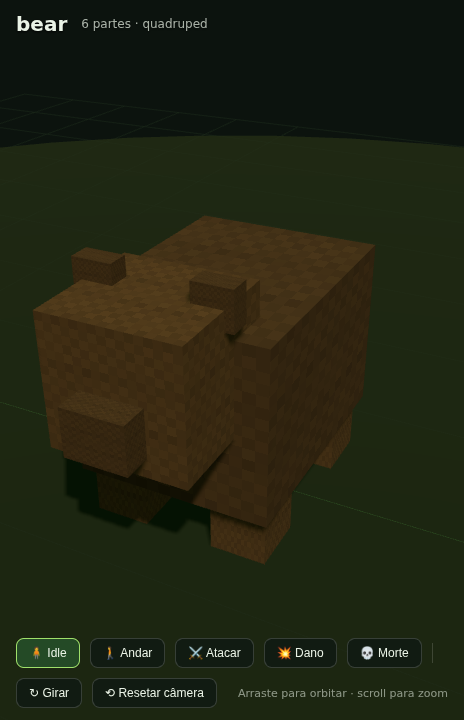
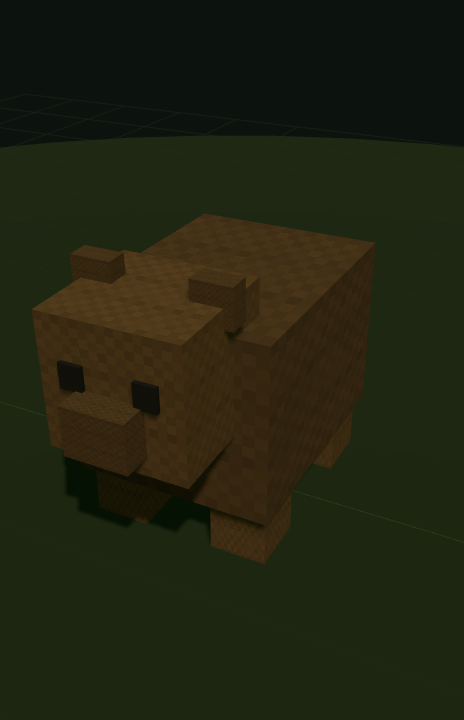
Polish: olhos nas formas, rua explícita, deco de interior por vila (ADR 0163, E30)
- Olhos: Lobo (âmbar), Urso (escuro) e Corvo (dourado) ganham olhos — as
  formas que faltavam. Fauna/inimigos/chefes já tinham. Imagens da wiki
  (forma-lobo/urso/corvo) recapturadas.
- Rua explícita: streetForce puxa o aldeão para a laje de rua mais próxima
  quando longe do alvo; some perto do alvo (chega à porta). v.streets =
  células de rua da vila. O povo anda pelos caminhos, não corta reto.
- Decoração de interior por vila: ao entrar, a vila de origem é detectada
  (settlementAt) e o interior ganha um canto com o sotaque da vila — peixe/
  junco (Vau), toras/toco (Cinzafolha), pele/gelo (Degelo), ervas (Clareira).
- Testes: streetForce (steering.test). 352 verdes; build ok.

Claude-Session: https://claude.ai/code/session_01EWx66t9zyS4WcLoHkWTqdG

diff --git a/src/world/InteriorManager.ts b/src/world/InteriorManager.ts
@@ -124,14 +124,14 @@ export class InteriorManager {
     for (const m of this._wallMats) m.color.setHex(theme.wall);
     this._lampMat.emissive.setHex(theme.accent);
     this.game.inDungeon = true;
-    this.active = {
-      themeId: theme.id, theme,
-      returnPos: { ...(this.game.groupCenter ?? { x: 0, z: 0 }) },
-      npcId: null,
-    };
+    const returnPos = { ...(this.game.groupCenter ?? { x: 0, z: 0 }) };
+    // Vila de origem (ADR 0163): a porta guarda onde estávamos; o tema da vila
+    // decide a decoração de sotaque do interior (rede no Vau, toras em Cinzafolha…).
+    const village = this.game.settlements?.settlementAt?.(returnPos.x, returnPos.z)?.theme ?? 'druida';
+    this.active = { themeId: theme.id, theme, returnPos, npcId: null, village };
     this._teleport(ROOM.x, ROOM.z - ROOM_R + 3);
     this.active.npcId = this._spawnNpc(theme);
-    this.active.props = this._buildProps(theme); // móveis temáticos (ADR 0104)
+    this.active.props = this._buildProps(theme, village); // móveis temáticos + sotaque da vila (ADR 0104/0163)
     this.active.kitchenId = theme.kitchen ? this._buildKitchen() : null; // caldeirão (E19.6)
     // Cozinheiro na taverna (E21.2): um 2º NPC que vende comida pronta e ingredientes.
     this.active.cookId = theme.service === 'rest' ? this._spawnCook() : null;
@@ -145,7 +145,7 @@ export class InteriorManager {
    * lareira na taverna, tapete/trono/estante nos salões. Grupo próprio,
    * removido na saída. Coordenadas relativas à sala (ROOM).
    */
-  _buildProps(theme) {
+  _buildProps(theme, village = 'druida') {
     const g = new THREE.Group();
     const mat = (c, emissive = 0) => new THREE.MeshStandardMaterial({ color: c, roughness: 0.9, emissive, emissiveIntensity: emissive ? 1 : 0 });
     const box = (w, h, d, x, y, z, c, em = 0) => {
@@ -180,6 +180,28 @@ export class InteriorManager {
       box(1.1, 0.3, 1.0, 0, 0.55, nz - 0.7, wood);        // assento
       box(2.4, 2.2, 0.5, -ROOM_R + 1.4 - ROOM.x * 0, 1.1, nz + 0.5, wood); // estante lateral (parede)
       box(0.9, 1.8, 0.08, 0, 3.3, -ROOM_R + 0.5, acc, acc); // estandarte na parede do fundo
+    }
+    // Sotaque da vila (ADR 0163): um cantinho decorado com a cara do assentamento,
+    // no canto dianteiro-esquerdo, perto da porta. Cada vila deixa sua marca.
+    const dx = -ROOM_R + 2, dz = ROOM_R - 3;
+    if (village === 'palafitas') {
+      box(1.0, 1.0, 0.9, dx, 0.5, dz, 0x3f6a5a);            // barril de peixe
+      box(0.9, 0.12, 0.9, dx, 1.05, dz, 0x8ad0ff, 0x2a5a7a); // peixe/água
+      box(0.1, 1.6, 0.1, dx + 1.1, 0.8, dz, 0x6a8a4a);       // junco alto
+      box(0.1, 1.4, 0.1, dx + 1.3, 0.7, dz + 0.2, 0x7a9a5a);
+    } else if (village === 'lenhadores') {
+      box(1.6, 0.5, 0.5, dx, 0.3, dz, 0x6b4a33);            // toras empilhadas
+      box(1.6, 0.5, 0.5, dx, 0.8, dz, 0x5a4028);
+      box(0.9, 0.7, 0.9, dx + 1.4, 0.35, dz, 0x7a5a3a);      // toco de rachar
+      box(0.1, 0.7, 0.5, dx + 1.4, 0.9, dz, 0x9a9a9a);       // machado fincado
+    } else if (village === 'degelo') {
+      box(1.4, 0.12, 1.0, dx, 0.14, dz, 0x8a7458);          // pele estendida
+      box(1.0, 0.8, 1.0, dx + 1.3, 0.4, dz, 0x9fdcff, 0x2a6a9a); // bloco de gelo
+    } else {
+      box(0.7, 0.7, 0.7, dx, 0.35, dz, 0x5a4028);           // cesto de ervas
+      box(0.7, 0.4, 0.7, dx, 0.75, dz, 0x6cba5a);           // maço de ervas verde
+      box(0.14, 1.1, 0.14, dx + 1.1, 0.55, dz, 0x6b4a33);   // muda em vaso
+      box(0.5, 0.5, 0.5, dx + 1.1, 1.15, dz, 0x4c7a34);
     }
     this.game.renderer.add(g);
     return g;

diff --git a/src/gameplay/steering.ts b/src/gameplay/steering.ts
@@ -64,6 +64,25 @@ export function avoidForce(x: number, z: number, rects: Rect[], radius = 2.0): P
 }
 
 /**
+ * Rua explícita (ADR 0163): puxa o aldeão para a laje de rua mais próxima quando
+ * ele está FORA dos caminhos (além da `deadzone`). Faz o povo andar pelas ruas
+ * em vez de cortar reto pela grama — combina-se com o rumo ao alvo. `cells` são
+ * pares [x,z] no MESMO referencial de (x,z). Devolve direção (unitária) ou zero.
+ */
+export function streetForce(x: number, z: number, cells: [number, number][], deadzone = 1.0): Pt {
+  let bx = 0, bz = 0, bd = Infinity;
+  for (const [cx, cz] of cells) {
+    const d = (cx - x) * (cx - x) + (cz - z) * (cz - z);
+    if (d < bd) { bd = d; bx = cx; bz = cz; }
+  }
+  if (bd === Infinity) return { x: 0, z: 0 };
+  const dist = Math.sqrt(bd);
+  if (dist <= deadzone) return { x: 0, z: 0 }; // já está na rua
+  const dx = bx - x, dz = bz - z, m = Math.hypot(dx, dz) || 1;
+  return { x: dx / m, z: dz / m };
+}
+
+/**
  * Combina o rumo desejado com separação e desvio, devolvendo um vetor unitário
  * (ou zero se nada empurra). Pesos: desvio manda mais que separação, que manda
  * mais que o rumo — evita atravessar casas, depois vizinhos, senão segue o alvo.

diff --git a/src/world/SettlementManager.ts b/src/world/SettlementManager.ts
@@ -9,7 +9,7 @@ import { interiorTheme } from '../data/interiors.js';
 import { routineGoal, goalSpread, ROUTINE_ARCHETYPES } from '../gameplay/routine.js';
 import { assignHouseholds } from '../gameplay/households.js';
 import { shouldChat, pickChatLine, CHAT_RANGE, CHAT_COOLDOWN } from '../gameplay/chatter.js';
-import { separationForce, avoidForce, steer, pointInRects } from '../gameplay/steering.js';
+import { separationForce, avoidForce, steer, pointInRects, streetForce } from '../gameplay/steering.js';
 
 /** Ponto de reunião (salão comunal) de cada vila, em coord LOCAL — onde os
  *  moradores almoçam e se reúnem ao entardecer (E22). */
@@ -190,7 +190,17 @@ export class SettlementManager {
       // estruturas — não se amontoam nem atravessam casas/árvore-mãe.
       const dx = v.target.x - tr.x, dz = v.target.z - tr.z;
       const dd = Math.hypot(dx, dz) || 1;
-      const desire = { x: dx / dd, z: dz / dd };
+      const cx = v.center?.x ?? 0, cz = v.center?.z ?? 0;
+      // Rua explícita (ADR 0163): longe do alvo, some ao rumo uma atração pela
+      // laje de rua mais próxima — o povo anda pelos caminhos. Perto do alvo
+      // (≤2.5u) some, para poder sair da rua e chegar à porta de casa/posto.
+      let desireX = dx / dd, desireZ = dz / dd;
+      if (dd > 2.5 && v.streets?.length) {
+        const sf = streetForce(tr.x - cx, tr.z - cz, v.streets, 0.9);
+        desireX += sf.x * 0.8; desireZ += sf.z * 0.8;
+        const m = Math.hypot(desireX, desireZ) || 1; desireX /= m; desireZ /= m;
+      }
+      const desire = { x: desireX, z: desireZ };
       const neighbors: { x: number; z: number }[] = [];
       for (const o of this._villagers) {
         if (o === v) continue;
@@ -198,7 +208,6 @@ export class SettlementManager {
         if (otr && Math.abs(otr.x - tr.x) < 2 && Math.abs(otr.z - tr.z) < 2) neighbors.push({ x: otr.x, z: otr.z });
       }
       const sep = separationForce(tr.x, tr.z, neighbors, 1.5);
-      const cx = v.center?.x ?? 0, cz = v.center?.z ?? 0;
       const avoid = avoidForce(tr.x - cx, tr.z - cz, v.fps ?? [], 2.0);
       const dir = steer(desire, sep, avoid);
       if (dir.x === 0 && dir.z === 0) { vel.vx = 0; vel.vz = 0; continue; }
@@ -626,6 +635,7 @@ export class SettlementManager {
         id, seed: hsh, archetype,
         gender: v.gender, role: v.role, householdId: v.householdId, // família (E22.2)
         fps: this.footprints[s.id] ?? [], // estruturas da vila p/ desvio (E23.5, coord local)
+        streets: this.pathCells[s.id] ?? [], // células de rua (local) p/ andar nos caminhos (ADR 0163)
         home,                            // casa / âncora de moradia (lar da família)
         work: { x: wx, z: wz },          // posto (trabalhador nasce no posto)
         center: { x: s.x, z: s.z },      // centro da vila (para perambular)

diff --git a/tests/steering.test.ts b/tests/steering.test.ts
@@ -1,5 +1,5 @@
 import { describe, it, expect } from 'vitest';
-import { pointInRects, separationForce, avoidForce, steer } from '../src/gameplay/steering.js';
+import { pointInRects, separationForce, avoidForce, steer, streetForce } from '../src/gameplay/steering.js';
 
 const rect = (x0, z0, x1, z1) => ({ x0, z0, x1, z1 });
 
@@ -43,5 +43,18 @@ describe('steering — IA dos aldeões (E23.5)', () => {
   it('steer sem forças e sem rumo devolve zero', () => {
     const dir = steer({ x: 0, z: 0 }, { x: 0, z: 0 }, { x: 0, z: 0 });
     expect(dir).toEqual({ x: 0, z: 0 });
+  });
+
+  it('streetForce puxa para a laje mais próxima quando fora da rua (ADR 0163)', () => {
+    const cells: [number, number][] = [[5, 0], [6, 0], [7, 0]];
+    const f = streetForce(0, 0, cells, 0.9); // longe da rua em +x
+    expect(f.x).toBeGreaterThan(0.9); // aponta para a rua (unitário em +x)
+    expect(Math.abs(f.z)).toBeLessThan(0.1);
+  });
+
+  it('streetForce é zero quando já na rua (dentro da deadzone)', () => {
+    const cells: [number, number][] = [[0.5, 0]];
+    expect(streetForce(0, 0, cells, 0.9)).toEqual({ x: 0, z: 0 });
+    expect(streetForce(0, 0, [], 0.9)).toEqual({ x: 0, z: 0 }); // sem ruas: neutro
   });
 });

diff --git a/src/entities/voxelModels.ts b/src/entities/voxelModels.ts
@@ -100,6 +100,8 @@ const wolf: VoxelModelSpec = {
       b([0.24, 0.2, 0.28], [0, -0.05, 0.42], C.wolfDk), // focinho
       b([0.12, 0.2, 0.08], [-0.16, 0.32, 0.02], C.wolfDk), // orelhas
       b([0.12, 0.2, 0.08], [0.16, 0.32, 0.02], C.wolfDk),
+      b([0.09, 0.11, 0.06], [-0.14, 0.12, 0.34], 0xffcf5a), // olhos âmbar (ADR 0163)
+      b([0.09, 0.11, 0.06], [0.14, 0.12, 0.34], 0xffcf5a),
     ] },
     { name: 'tail', joint: [0, 0.55, -0.6], boxes: [b([0.14, 0.14, 0.45], [0, 0.05, -0.2], C.wolfDk)] },
     { name: 'legFL', joint: [-0.22, 0.32, 0.4], boxes: [b([0.16, 0.42, 0.18], [0, -0.21, 0], C.wolfDk)] },
@@ -118,6 +120,8 @@ const bear: VoxelModelSpec = {
       b([0.28, 0.22, 0.2], [0, 0, 0.38], C.bear),      // focinho
       b([0.18, 0.18, 0.1], [-0.26, 0.4, 0], C.bear),   // orelhas redondas
       b([0.18, 0.18, 0.1], [0.26, 0.4, 0], C.bear),
+      b([0.1, 0.11, 0.06], [-0.16, 0.16, 0.34], 0x1a1a1a), // olhos (ADR 0163)
+      b([0.1, 0.11, 0.06], [0.16, 0.16, 0.34], 0x1a1a1a),
     ] },
     { name: 'legFL', joint: [-0.34, 0.5, 0.45], boxes: [b([0.3, 0.55, 0.32], [0, -0.27, 0], C.bearLt)] },
     { name: 'legFR', joint: [0.34, 0.5, 0.45], boxes: [b([0.3, 0.55, 0.32], [0, -0.27, 0], C.bearLt)] },
@@ -133,6 +137,8 @@ const raven: VoxelModelSpec = {
     { name: 'head', joint: [0, 1.05, 0.2], boxes: [
       b([0.36, 0.36, 0.36], [0, 0.1, 0.1], C.ravenLt),
       b([0.1, 0.1, 0.26], [0, 0.06, 0.36], C.beak),    // bico
+      b([0.08, 0.09, 0.05], [-0.11, 0.14, 0.26], 0xffe08a), // olhos (ADR 0163)
+      b([0.08, 0.09, 0.05], [0.11, 0.14, 0.26], 0xffe08a),
     ] },
     { name: 'wingL', joint: [-0.2, 0.95, 0], boxes: [b([0.5, 0.1, 0.5], [-0.25, 0, 0], C.ravenLt)] },
     { name: 'wingR', joint: [0.2, 0.95, 0], boxes: [b([0.5, 0.1, 0.5], [0.25, 0, 0], C.ravenLt)] },

diff --git a/docs/adr/0163-olhos-rua-explicita-deco-interior.md b/docs/adr/0163-olhos-rua-explicita-deco-interior.md
@@ -1,0 +1,30 @@
+# ADR 0163 — Olhos nas formas, rua explícita e decoração de interior por vila (E30)
+
+**Status:** Aceito · **Data:** 2026-07-07
+
+## Contexto
+Três pedidos do playtest: (1) algumas **formas sem olhos** (Lobo/Urso/Corvo);
+(2) aldeões **andando pelas ruas** de propósito (follow-up do ADR 0154, que só
+desviava de obstáculos); (3) **decoração de interior adaptada a cada vila**.
+
+## Decisão
+1. **Olhos** (`voxelModels.ts`): adicionados aos modelos das formas que não tinham
+   — Lobo (âmbar), Urso (escuro), Corvo (dourado). Fauna, inimigos e chefes já
+   tinham. Imagens da wiki (forma-lobo/urso/corvo) recapturadas.
+2. **Rua explícita** (`steering.streetForce` + `SettlementManager._wander`): cada
+   aldeão carrega as células de rua da sua vila (`v.streets`, coord local). Longe
+   do alvo (>2.5u), soma ao rumo uma **atração pela laje de rua mais próxima**
+   (peso 0.8), então o povo caminha pelos caminhos em vez de cortar reto pela
+   grama. Perto do alvo a atração some, para poder sair da rua e chegar à porta.
+3. **Decoração por vila** (`InteriorManager`): ao entrar, a **vila de origem** é
+   detectada por `settlements.settlementAt(returnPos)`; `_buildProps` ganha um
+   canto com o **sotaque da vila** — barril de peixe + junco (Vau), toras + toco
+   e machado (Cinzafolha), pele + bloco de gelo (Degelo), cesto de ervas + muda
+   (Clareira).
+
+## Consequências
+- Formas com rosto completo; vila com povo circulando nos caminhos; interiores
+  com identidade da vila além do tema do serviço.
+- Travado por teste (`steering.test`: streetForce puxa quando fora, zero na rua/
+  sem ruas) e verificado em runtime (aldeões seguem as ruas; interior do Vau =
+  `village 'palafitas'` com a decoração de pesca). 352 testes verdes.

diff --git a/docs/adr/README.md b/docs/adr/README.md
@@ -166,4 +166,5 @@ autônomo do Druida. Cada ADR é curto: contexto, decisão e consequências.
 | [0160](0160-wiki-ilustrada-lote-2.md) | Wiki ilustrada, lote 2: biomas, interiores, armas & skills (E27) | Aceito |
 | [0161](0161-wiki-hazards-ilustrados.md) | Hazards ilustrados: wiki 100% por entidade (E28) | Aceito |
 | [0162](0162-fixes-playtest-formas-interior-proficiencia.md) | Correções do playtest: forma inicial, interior, proficiência, menu (E29) | Aceito |
+| [0163](0163-olhos-rua-explicita-deco-interior.md) | Olhos nas formas, rua explícita e decoração de interior por vila (E30) | Aceito |
 | [0086](0086-janelas.md) | Janelas com moldura à altura do olho (M20.2) | Aceito |

diff --git a/docs/roadmap.md b/docs/roadmap.md
@@ -159,6 +159,7 @@ A UI atual não chega na referência do MCD; esta é a versão de verdade.
 | E19 Culinária & Craft | ✅ concluído (E19.1 fundação: despensa de ingredientes empilháveis + receitas + nível de Craft + buffs/despensa/craft salvos + ícones certos na hotbar + monstros dropam ingredientes no lugar de comida pronta — ADR 0135; E19.2 bancada de cozinha: caldeirão na praça + painel de craft (have/need, lock por nível, despensa) + cozinhar consome/dá XP/gera comida — ADR 0136; E19.3 forrageamento: nós de coleta por bioma espalhados no mapa (colher com E, respawn) — ADR 0137; E19.4 mercador vende ingredientes e comida — ADR 0138; E19.5 loja: ícone dedicado de comida + venda de ingredientes da despensa — ADR 0139; E19.6 Salão Comunal: caldeirão saiu da praça e passou a viver dentro da taverna e do salão comunal — ADR 0140) | ✅ |
 | E20 Plantação | ✅ entregue (E20.1 fundação: culturas plantáveis (erva/cenoura/cogumelo) + sementes na despensa + canteiros com plantar/crescer/colher, funções puras salvas no progresso — ADR 0141; E20.2 canteiros interativos na praça da Clareira + painel de plantio/colheita + crescimento visual broto→fruto — ADR 0142; E20.3 sementes à venda no mercador, fechando o ciclo comprar→semear→crescer→colher — ADR 0143) | — |
 | E21 Mercadores especializados + sementes no drop | ✅ entregue (E21.1 sementes no forrageamento: chance de dropar a semente da cultura ao colher no mundo — ADR 0144; E21.2 mercadores especializados (armeiro/armadureiro só equipamento; categorias food/garden/general) + cozinheiro na taverna vendendo comida — ADR 0145; E21.3 jardineiro numa casa própria vendendo sementes em cada uma das 4 vilas (4ª cabana no lenhadores) — ADR 0146)) | — |
+| E30 Polish: olhos, rua explícita, deco de interior | ✅ olhos nas formas Lobo/Urso/Corvo; aldeões andam pelas ruas (streetForce puxa para a laje mais próxima); interiores com decoração da vila de origem (Vau pesca, Cinzafolha toras, Degelo peles, Clareira ervas) — ADR 0163 | — |
 | E29 Correções do playtest | ✅ jogador começa só humanoide (Lobo vem do santuário); interior deixa de prender (colisores de parede como fileira, não círculo gigante); proficiência só ao acertar (não no golpe ao ar); botão "Menu inicial" na pausa — ADR 0162 | — |
 | E28 Wiki 100% ilustrada | ✅ hazards ilustrados (anel telegrafado de cada bioma: lodo/cinza/gelo/carne) — 4 imagens; a wiki agora ilustra TODA entidade citada — ADR 0161 | — |
 | E27 Wiki ilustrada, lote 2 | 🚧 biomas (5 close-ups), interiores (6), armas (tabela das 9 + galeria de modelos) e skills (painel de Talentos) ilustrados na wiki — 15 imagens novas; falta só os hazards — ADR 0160 | — |